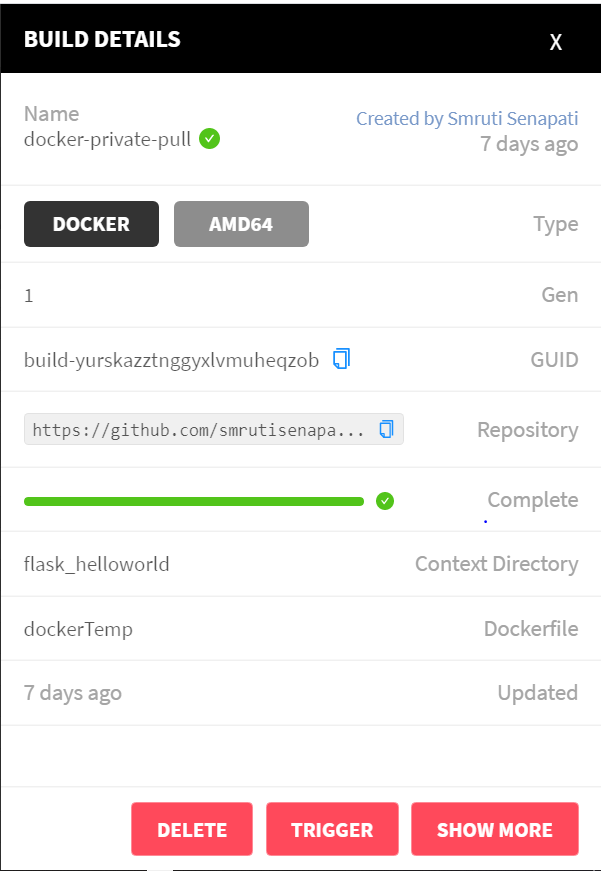
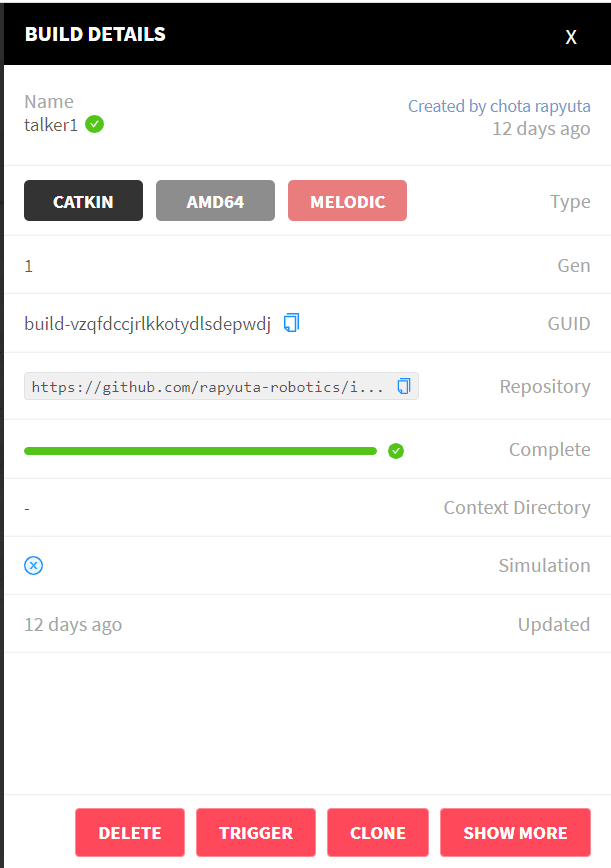
user doc updated for build clone feature

diff --git a/hugo/content/developer-guide/create-software-packages/builds/build-creation.md b/hugo/content/developer-guide/create-software-packages/builds/build-creation.md
@@ -98,7 +98,7 @@ After you have created a build by either Catkin or Docker recipe, you can view t
     |**Status**| Provides the following status of the build. <ul><li>BuildInProgress: Displays when the build creation process is in progress.</li><li>Complete: Displays when the build creation process has been successfully completed.</li><li>BuildFailed: Displays if the build creation process has failed.</li></ul>
     |**Started**| Provides the time duration when the build creation process has started.
     |**Repository**| Provides the repository from which the build has been created.
-    |**Action**| Allows you to [delete](/developer-guide/create-software-packages/builds/build-creation/#deleting-the-build) a build. 
+    |**Action**| Allows you to [delete](/developer-guide/create-software-packages/builds/build-creation/#deleting-the-build), [trigger](/developer-guide/create-software-packages/builds/trigger-rollback/), or [clone](/developer-guide/create-software-packages/builds/build-cloning/)  a build. 
 
 2. To view the details of a particular build, click the build. The following image is displayed.
 ![goo](/images/core-concepts/builds/build-creation/build-detail-action.png?classes=border,shadow&width=25pc)
@@ -107,6 +107,7 @@ The **Build Details** page allows you to do the following.</br>
 
 * Click **[Delete](#deleting-the-build)** to delete the build. 
 * Click **[Trigger](/developer-guide/create-software-packages/builds/trigger-rollback/)** to trigger a build. 
+* Click **[Clone](/developer-guide/create-software-packages/builds/build-cloning/)** to clone a build within the same or to different projects.
 * Click **Show More** to view the details of the build and view the [build log](/developer-guide/tooling-automation/logging/build-logs).
 
 After clicking **Show More**,  the following image is displayed.
@@ -117,9 +118,9 @@ After clicking **Show More**,  the following image is displayed.
 ## Deleting the build
 Follow the below steps to delete the build :
 
-1. On the left navigation bar, click **BUILDS**. It will display all the builds in a given project.
-2. Select the build which you want to delete. 
-3. Click on **Delete**.
+1. On the left navigation bar, click **BUILDS**. It  displays all the builds available for a project.
+2. Select the build that you want to delete. 
+3. Click **Delete**.
 4. Confirm on the build deletion message.
 
 

diff --git a/hugo/content/developer-guide/create-software-packages/builds/build-cloning.md b/hugo/content/developer-guide/create-software-packages/builds/build-cloning.md
@@ -1,0 +1,23 @@
+---
+title: "Cloning a Build"
+description:
+type: developer-guide
+date: 2020-12-25T12:39:12+05:30
+pre: "b. "
+weight: 325
+---
+
+The rapyuta.io platform allows you to clone a build within the same or different project and reduces the time and effort require to create a build from scratch.
+
+Perform the following procedure to clone a build.
+
+1. On the left navigation bar, click **BUILDS**. It displays all the builds available within a project.
+2. Select the build that you want clone and click **Clone Build**. 
+3. A dialog box appears and prompts you to select the project where you want to clone the build. Click **Clone Build**.
+![build-clone](/images/core-concepts/builds/build-clone.png?classes=border,shadow&width=25pc)
+
+{{% notice info %}}
+If you want to clone a project within the same project, you must rename the project name.
+{{% /notice %}}
+4. The build creation page appears and allows you to modify the build details. For more information about build creation, [click here](/developer-guide/create-software-packages/builds/build-creation).
+5. After reviewing the field details of the build creation pages, click **Next**. The build is cloned to the selected project.

diff --git a/hugo/content/developer-guide/create-software-packages/builds/trigger-rollback.md b/hugo/content/developer-guide/create-software-packages/builds/trigger-rollback.md
@@ -3,7 +3,7 @@ title: "Trigger and Rollback"
 description:
 type: developer-guide
 date: 2019-10-25T12:39:12+05:30
-pre: "b. "
+pre: "c. "
 weight: 325
 ---
 As a developer you may want to trigger a new build or rollback to a previous build generation. 

diff --git a/hugo/content/developer-guide/create-software-packages/builds/ros-support.md b/hugo/content/developer-guide/create-software-packages/builds/ros-support.md
@@ -3,7 +3,7 @@ title: "ROS Support"
 description:
 type: developer-guide
 date: 2019-10-25T12:39:37+05:30
-pre: "c. "
+pre: "d. "
 weight: 330
 ---
 You can control how ROS packages will be built by specifying catkin
